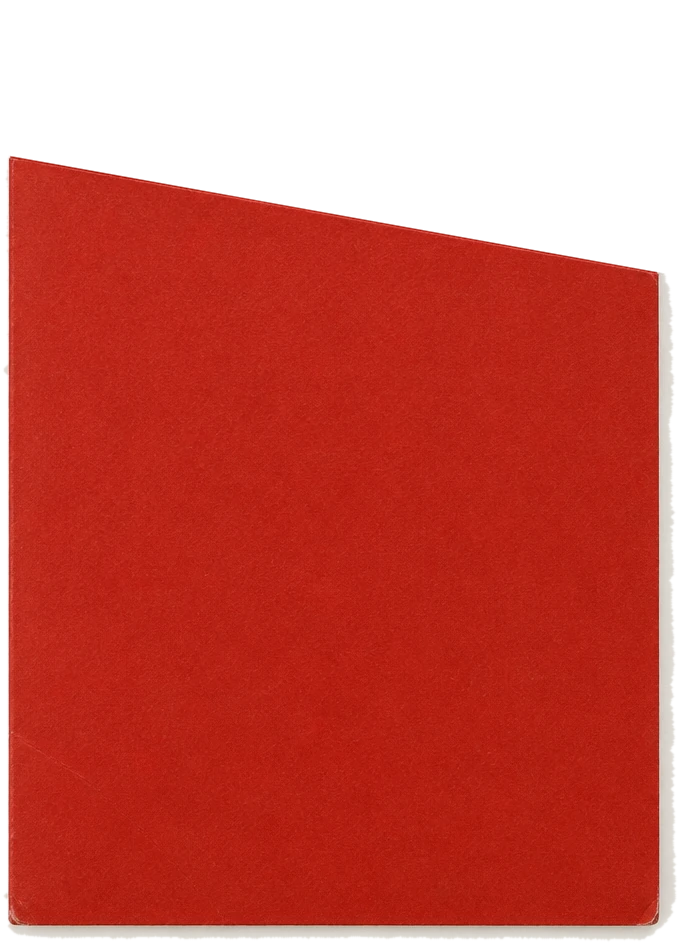
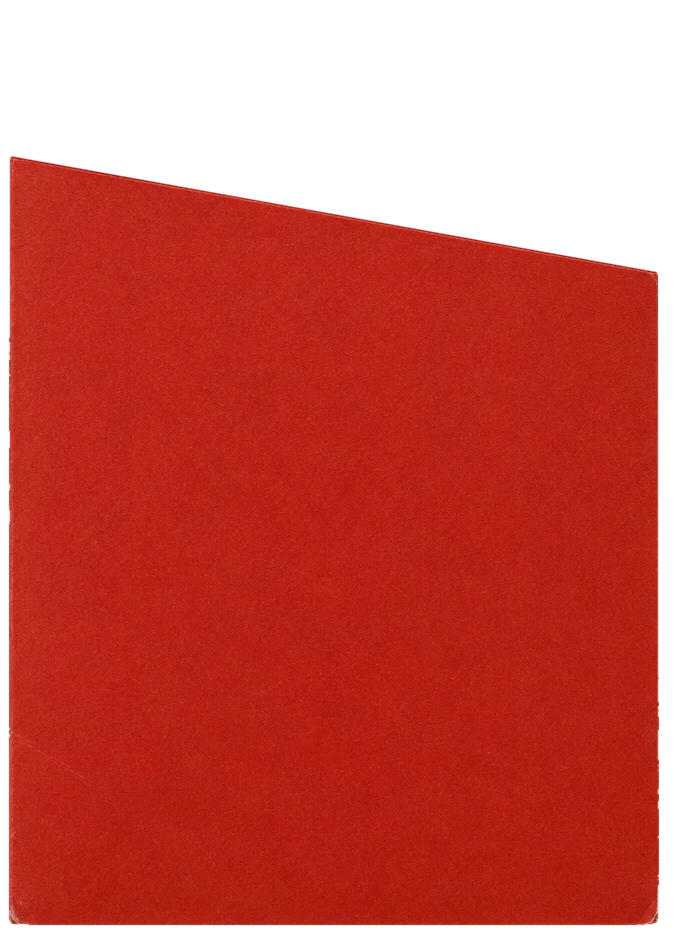
The folder is cut to the red card alone, so no pale rim shows on hover

diff --git a/app/globals.css b/app/globals.css
@@ -1275,12 +1275,13 @@ body::after {
   letter-spacing: .08em; text-transform: uppercase;
 }
 
-/* Ukrainska 15's pocket folder (see Envelope in DeskScene). The layers carry
-   their own contact shadow, so the card itself is bare. Sizes are desk px on
+/* Ukrainska 15's pocket folder (see Envelope in DeskScene). The layers are cut
+   to the card alone, so the shadow is the folder's own outline. Sizes are desk px on
    a 150-wide folder; the pocket's cut runs from 16.4% down on the left to
    29.3% on the right, and everything printed sits below it, bar the French
    Design Awards stamp, struck on the back flap above the cut. */
-.desk-card--env { border: 0; border-radius: 0; background: none; overflow: visible; box-shadow: none; }
+.desk-card--env { border: 0; border-radius: 0; background: none; overflow: visible; box-shadow: none;
+                  filter: drop-shadow(0 calc(1 * var(--u)) calc(1.2 * var(--u)) rgba(20,16,12,.28)); }
 .env { position: absolute; inset: 0; display: block; }
 .env__layer { position: absolute; inset: 0; width: 100%; height: 100%; display: block; }
 /* Dark red ink printed into the card, as on the reference folder. */

diff --git a/components/DeskScene.tsx b/components/DeskScene.tsx
@@ -78,10 +78,10 @@ function Envelope() {
     <span className="env">
       <span className="sr-only">Ukrainska 15</span>
       {/* eslint-disable-next-line @next/next/no-img-element */}
-      <img className="env__layer" src="/artefacts/ukrainska-15/envelope/back.webp" alt="" draggable={false} />
+      <img className="env__layer" src="/artefacts/ukrainska-15/envelope/back.webp?v=2" alt="" draggable={false} />
       {/* the contents go here, between the back and the pocket */}
       {/* eslint-disable-next-line @next/next/no-img-element */}
-      <img className="env__layer" src="/artefacts/ukrainska-15/envelope/pocket.webp" alt="" draggable={false} />
+      <img className="env__layer" src="/artefacts/ukrainska-15/envelope/pocket.webp?v=2" alt="" draggable={false} />
       <span className="env__print" aria-hidden>
         <span className="env__no">01</span>
         <span className="env__where">Ukrainska 15 · Kupiansk</span>
